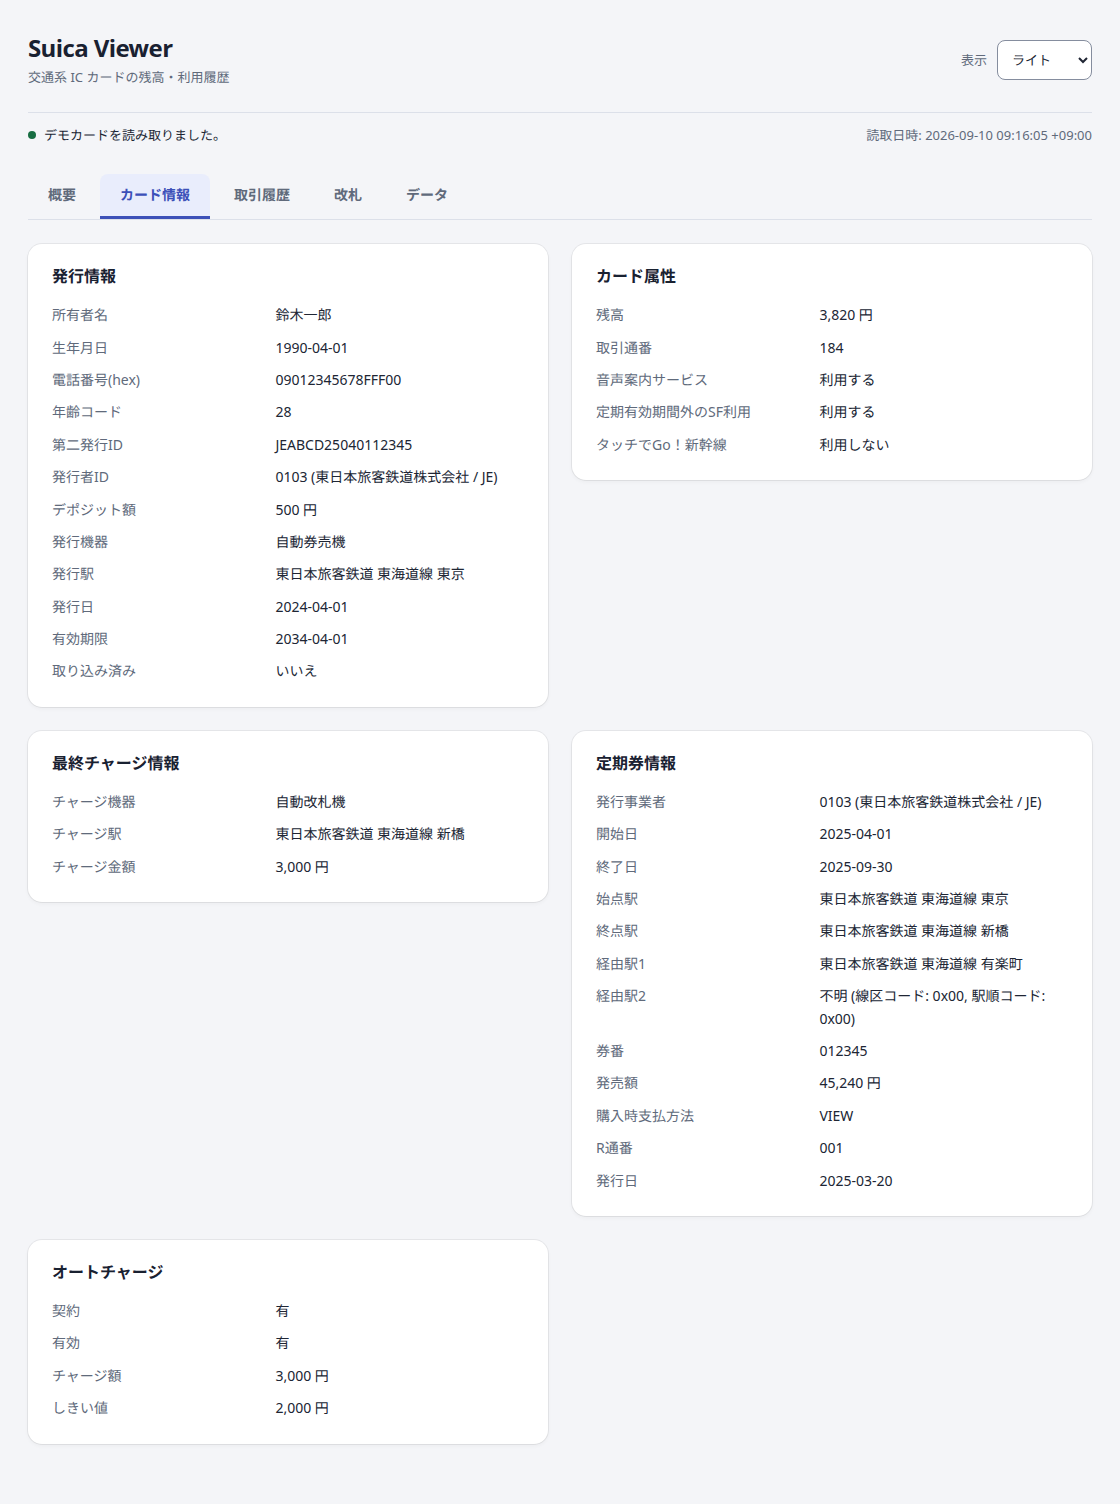
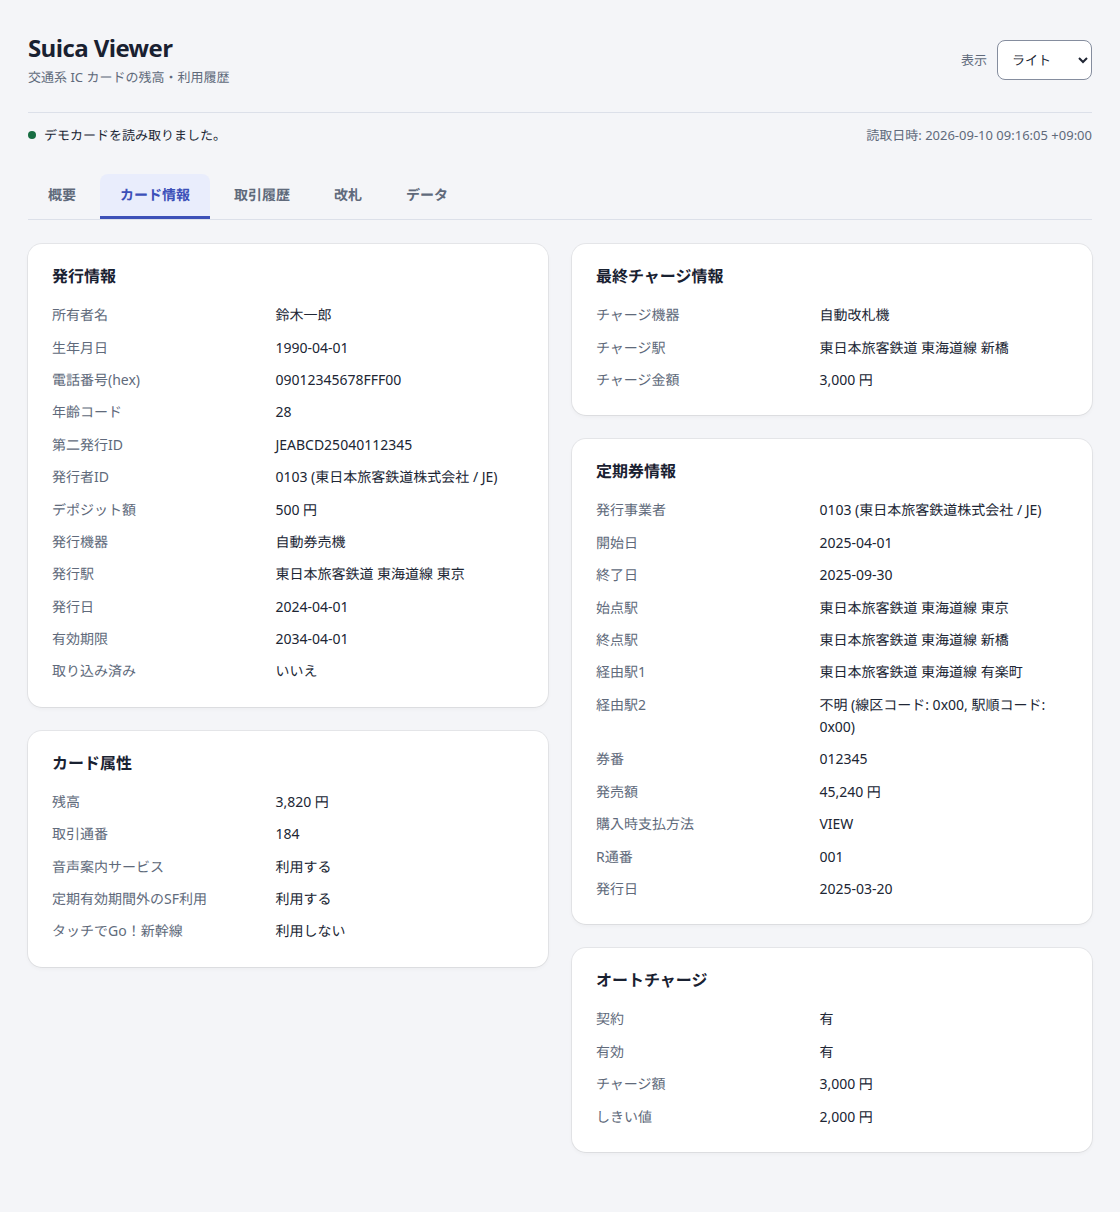
fix UI design

diff --git a/ui/src/App.tsx b/ui/src/App.tsx
@@ -311,7 +311,7 @@ function CardInfo({ card }: { card: CardData | null }) {
   const yesNo = (value: boolean) => (value ? "有" : "無");
 
   return (
-    <div class="cols">
+    <div class="card-info">
       <CardPanel title="発行情報">
         <KeyValues
           rows={[

diff --git a/ui/src/styles.css b/ui/src/styles.css
@@ -544,6 +544,13 @@ button:disabled {
 .cols > .card {
   margin-block-end: 0;
 }
+.card-info {
+  columns: 2 360px;
+  column-gap: 24px;
+}
+.card-info > .card {
+  break-inside: avoid;
+}
 .welcome.card {
   padding: 40px 24px;
   text-align: center;
